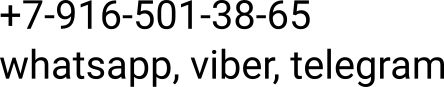
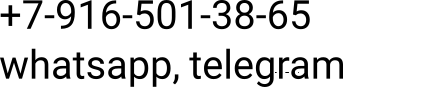
ew image of fio, address, phonenumber, corrected yandex rating link and yandex sprav link

Changed region(s): [[0.4099, 0.5517, 1.0, 1.0]]

diff --git a/public/index.html b/public/index.html
@@ -1,4 +1,4 @@
-<!Doctype html><html lang="ru-RU" title="Частный бухгалтер в Лобне"><head><meta charset="UTF-8"><meta name="viewport" content="width=device-width,initial-scale=1"><meta http-equiv="X-UA-Compatible" content="ie=edge"><meta name="description" content="Услуги бухгалтера в Лобне. 3-НДФЛ в Лобне, декларации УСН, налоговая отетность."><meta name="Keywords" content="3-НДФЛ, бухгалтерия в Лобне, деклария УСН, отчетность в налоговую"><meta name="yandex-verification" content="42da7c39a68bbf83"><link rel="shortcut icon" type="image/png" href="favicon.png"><link rel="stylesheet" href="css/style.min.css"><link rel="stylesheet" href="css/solid.min.css"><link rel="stylesheet" href="css/fontawesome.min.css"><link rel="canonical" href="https://mojbuhgalter.ru/"><link rel="dns-prefetch" href="//www.google.com"><link rel="dns-prefetch" href="//fonts.googleapis.com"><script async src="js/fontawesome.min.js"></script><script async src="js/solid.min.js"></script><script async src="https://cdnjs.cloudflare.com/ajax/libs/jquery/3.3.1/jquery.min.js"></script><script async src="js/menu.min.js"></script><script type="application/ld+json" class="aioseop-schema">{"@context":"https://schema.org","@graph":[{"@type":"Organization","@id":"https://mojbuhgalter.ru/#organization","url":"https://mojbuhgalter.ru/","name":"Частный бухгалтер в Лобне","sameAs":[]},{"@type":"WebSite","@id":"https://mojbuhgalter.ru/#website","url":"https://mojbuhgalter.ru/","name":"Частный бухгалтер в Лобне","publisher":{"@id":"https://mojbuhgalter.ru/#organization"}},{"@type":"WebPage","@id":"https://mojbuhgalter.ru#webpage","url":"https://mojbuhgalter.ru","inLanguage":"ru-RU","name":"Частный бухгалтер в Лобне","isPartOf":{"@id":"https://mojbuhgalter.ru/#website"},"breadcrumb":{"@id":"https://mojbuhgalter.ru#breadcrumblist"},"description":"Частные бухгалтерские услуги в Лобне, Долгопрудном, 3-НДФЛ","datePublished":"2015-12-01T12:17:01+03:00","dateModified":"2020-04-23T05:15:12+03:00","about":{"@id":"https://mojbuhgalter.ru/#organization"}},{"@type":"BreadcrumbList","@id":"https://mojbuhgalter.ru#breadcrumblist","itemListElement":[{"@type":"ListItem","position":1,"item":{"@type":"WebPage","@id":"https://mojbuhgalter.ru/","url":"https://mojbuhgalter.ru/","name":"Частный бухгалтер в Лобне"}}]}]}</script><title>Частный бухгалтер в Лобне. Ведение бухгалтерии, налоговая отчетность. 3-НДФЛ, патенты для иногородних.</title></head><body><div class="backgroud-container"><div class="container"><header class="header"><hr class="upper-line"><div class="header2"><img src="img/mb_logo.png" class="logo"><h1>Частный бухгалтер в Лобне</h1></div><hr class="bottom-line"><div class="menu-wrap"><input type="checkbox" class="toggler"><div class="hamburger"><div></div></div><div class="menu"><div><div><ul><li class="hamburger-off"><a href="#aboutme">Обо мне</a></li><li class="hamburger-off"><a href="#individual">Для физических лиц</a></li><li class="hamburger-off"><a href="#company">Для юридических лиц</a></li><li class="hamburger-off"><a href="#3_ndfl">3-НДФЛ в Лобне</a></li><li class="hamburger-off"><a href="#contacts">Контакты</a></li></ul></div></div></div></div></header><div><section id="aboutme"><div class="main"><h2>Обо мне</h2><div class="card_wrapper"><div class="inner_70"><ul><strong>Частный бухгалтер — Копылова Марина Андреевна</strong><li>Высшее образование — РЭУ им.Плеханова, финансовый факультет, специальность — финансовый менеджмент (диплом с отличием).</li><li>Опыт работы — в качестве экономиста, бухгалтера и налогового консультанта с 2008 года.</li><li>Я предоставляю бухгалтерские услуги удаленно в собственной бухгалтерской программе.</li><li>Все вопросы можете задать в любой момент и Вы гарантировано получите быстрый компетентный ответ.</li><li>В работе использую специальные налоговые программы. Вы всегда можете быть уверены, что сдадите актуальную форму документа.</li><li>Своя бухгалтерская программа 1С, всегда актуальная версия, сделаю необходимые документы для Вас.</li><li>Сдача отчетности через Интернет прямо из программы без затрат сил, средств, времени и нервов на стояние в очередях (при наличии ЭЦП).</li><li>Консультации онлайн по телефону, вотсап, электронной почте.</li></ul></div><div class="inner_30"><img src="img/Marina-Kopylova-200x300.jpg" class="image" alt="Копылова Марина Андреевна, частный бухглтер" title="частный бухгалтер в Лобне, Дмитрове, Долгопрудном, Химках"></div></div></div></section><section id="individual"><div class="main"><h2>Для физических лиц</h2><div class="card_wrapper"><div class="inner_30"><img src="img/mojbuhgalter.ru_-200x300.jpg" class="image" alt="бухгалтерские услуги" title="бухгалтерские услуги в Лобне, Дмитрове, Долгопрудном, Химках"></div><div class="inner_70"><ul><li>Налоговый вычет 3-НДФЛ для физических лиц.</li><li>3-НДФЛ для вида на жительство в РФ.</li><li>Вернуть налог при покупке квартиры.</li><li>Вернуть налог за лечение.</li><li>Вернуть налог за обучение.</li><li>Вернуть деньги при покупке недвижимости.</li><li>Сделать счет, акт, накладную в Лобне.</li><li>Налоговые консультации в Лобне.</li><li>Распечатать документы в Лобне.</li><li>Консультации для физлиц по вопросам имущественных и социальных вычетов.</li><li>Заполнение 3-ндфл для иностранных граждан/мигрантов.</li><li>Оформить покупку гаража Лобня.</li><li>Оформить продажу гаража Лобня.</li><li>Оформить покупку автомобиля Лобня.</li><li>Оформить продажу автомобиля Лобня.</li><li>Оформить покупку земельного участка Лобня.</li><li>Оформить продажу земельного участка Лобня.</li><li>Договор купли-продажи гаража заполнить Лобня.</li><li>Договор купли-продажи автомобиля заполнить Лобня.</li><li>Договор купли-продажи земельного участка заполнить Лобня.</li><li>Составить уведомление КИК.</li></ul></div></div></div></section><section id="company"><div class="main"><h2>Для юридических лиц</h2><div class="card_wrapper"><div class="inner_60"><ul><li>Ведение бухгалтерского учета ООО и ИП на упрощенной и общей системе налогобложения.</li><li>Уменьшение патента на взносы.</li><li>Заполнение декларации УСН.</li><li>Оформление трудовых договоров.</li><li>Квинтации на оплату налогов и взносов.</li><li>Квитанции на обязательные платежи ИП.</li><li>Заполнение РСВ, 6-НДФЛ, 4-ФСС.</li><li>Отчет ИП, оформление сотрудников ИП, расчет зарплаты сотрудников.</li><li>Налоговые консультации ИП и ООО, урегулирование фискальных задолженностей.</li><li>Формирование отчетов в ФНС, ПФР, ФСС, в т.ч. нулевых;</li><li>Выписки из ЕГРЮЛ/ЕГРИП срочно и удаленно;</li></ul></div><div class="inner_30"><img src="img/chastnyj-buhgalter-300x203.jpg" class="image" alt="бухгалтерия для компаний" title="бухгалтерские услуги для юридических лиц, ООО, ИП"></div></div></div></section><section id="3_ndfl"><div class="main"><h2>3-НДФЛ в Лобне</h2><strong>Оперативно поможем Вам заполнить 3-НДФЛ, не выходя из дома.</strong><div class="card_wrapper"><div class="inner_60"><ul><li>Звоните по тел. +7(916)501-38-65 или пишите в вотсап на этом номере</li><li>Обсуждаем детали, конкретно Вашу ситуацию, для которой заполняется 3-НДФЛ</li><li>Я сообщаю, какие документы нужны для заполнения, их можно направить удаленно или передать при личной встрече (как правило, достаточно 2 документов)</li><li>В течение 24 часов Вы получаете заполненную декларацию в бумажном или электронном виде, а также необходимые для сдачи декларации в налоговую заявления.</li><li>Сдаете декларацию при личном визите в налоговую, почтой или через личный кабинет на сайте налог.ру или госуслуги.ру</li></ul></div><div class="inner_30"><img src="img/3-ndfl-deklaratsiya-m17190.jpg" class="image" alt="3-НДФЛ" title="3 НДФЛ в Лобне, Дмитрове, Долгопрудном, Химках"></div></div></div></section><section id="contacts"><div class="main"><h2>Контакты</h2><div class="card_wrapper"><div class="inner_60"><ul class="contacts"><li><i class="fas fa-id-card fa-lg"></i> &nbsp; <img src="img/fio.png" alt="Копылова Марина Андреевна" title="Копылова Марина Андреевна" style="max-width:300px;width:270px"></li><li><i class="fas fa-phone-square-alt fa-lg"></i> &nbsp; <img src="img/phonenumber.png" alt="номер телефона" title="номер телефона" style="max-width:400px;width:270px"></li><li><i class="fas fa-envelope fa-lg"></i> &nbsp; <img src="img/mail.png" alt="email" title="Электронный адрес" style="max-width:300px;width:270px"></li><li><i class="fas fa-map-marker-alt fa-lg"></i> &nbsp; <img src="img/address.png" alt="Адрес" title="Почтовый адрес" style="max-width:300px;width:270px"></li></ul></div><div class="inner_30"><img src="img/cooperation.jpg" alt="Содрудничество" title="Бузхгалтерия для Вас" class="image"><h3>Оценка клиентов в Яндексе</h3><div align="center"><iframe scrolling="no" src="https://yandex.ru/sprav/widget/rating-badge/1675903794?type=rating" width="200" height="50" frameborder="0"></iframe></div><p>Воспользовались моими услугами?<br>Оставьте отзыв по <a href="https://ya.cc/t/gpo3Y0A14iWeGD">ссылке.</a></p></div></div></div></section></div><div class="footer"><h3>Мой бухгалтер - частные бухгалтерские услуги: просто, удобно, доступно.</h3><h3>&copy;&nbsp;2015-2024&nbsp;&nbsp;</h3><!-- Yandex.Metrika counter & Google counter --><script type="text/javascript">var fired = false;
+<!Doctype html><html lang="ru-RU" title="Частный бухгалтер в Лобне"><head><meta charset="UTF-8"><meta name="viewport" content="width=device-width,initial-scale=1"><meta http-equiv="X-UA-Compatible" content="ie=edge"><meta name="description" content="Услуги бухгалтера в Лобне. 3-НДФЛ в Лобне, декларации УСН, налоговая отетность."><meta name="Keywords" content="3-НДФЛ, бухгалтерия в Лобне, деклария УСН, отчетность в налоговую"><meta name="yandex-verification" content="42da7c39a68bbf83"><link rel="shortcut icon" type="image/png" href="favicon.png"><link rel="stylesheet" href="css/style.min.css"><link rel="stylesheet" href="css/solid.min.css"><link rel="stylesheet" href="css/fontawesome.min.css"><link rel="canonical" href="https://mojbuhgalter.ru/"><link rel="dns-prefetch" href="//www.google.com"><link rel="dns-prefetch" href="//fonts.googleapis.com"><script async src="js/fontawesome.min.js"></script><script async src="js/solid.min.js"></script><script async src="https://cdnjs.cloudflare.com/ajax/libs/jquery/3.3.1/jquery.min.js"></script><script async src="js/menu.min.js"></script><script type="application/ld+json" class="aioseop-schema">{"@context":"https://schema.org","@graph":[{"@type":"Organization","@id":"https://mojbuhgalter.ru/#organization","url":"https://mojbuhgalter.ru/","name":"Частный бухгалтер в Лобне","sameAs":[]},{"@type":"WebSite","@id":"https://mojbuhgalter.ru/#website","url":"https://mojbuhgalter.ru/","name":"Частный бухгалтер в Лобне","publisher":{"@id":"https://mojbuhgalter.ru/#organization"}},{"@type":"WebPage","@id":"https://mojbuhgalter.ru#webpage","url":"https://mojbuhgalter.ru","inLanguage":"ru-RU","name":"Частный бухгалтер в Лобне","isPartOf":{"@id":"https://mojbuhgalter.ru/#website"},"breadcrumb":{"@id":"https://mojbuhgalter.ru#breadcrumblist"},"description":"Частные бухгалтерские услуги в Лобне, Долгопрудном, 3-НДФЛ","datePublished":"2015-12-01T12:17:01+03:00","dateModified":"2020-04-23T05:15:12+03:00","about":{"@id":"https://mojbuhgalter.ru/#organization"}},{"@type":"BreadcrumbList","@id":"https://mojbuhgalter.ru#breadcrumblist","itemListElement":[{"@type":"ListItem","position":1,"item":{"@type":"WebPage","@id":"https://mojbuhgalter.ru/","url":"https://mojbuhgalter.ru/","name":"Частный бухгалтер в Лобне"}}]}]}</script><title>Частный бухгалтер в Лобне. Ведение бухгалтерии, налоговая отчетность. 3-НДФЛ, патенты для иногородних.</title></head><body><div class="backgroud-container"><div class="container"><header class="header"><hr class="upper-line"><div class="header2"><img src="img/mb_logo.png" class="logo"><h1>Частный бухгалтер в Лобне</h1></div><hr class="bottom-line"><div class="menu-wrap"><input type="checkbox" class="toggler"><div class="hamburger"><div></div></div><div class="menu"><div><div><ul><li class="hamburger-off"><a href="#aboutme">Обо мне</a></li><li class="hamburger-off"><a href="#individual">Для физических лиц</a></li><li class="hamburger-off"><a href="#company">Для юридических лиц</a></li><li class="hamburger-off"><a href="#3_ndfl">3-НДФЛ в Лобне</a></li><li class="hamburger-off"><a href="#contacts">Контакты</a></li></ul></div></div></div></div></header><div><section id="aboutme"><div class="main"><h2>Обо мне</h2><div class="card_wrapper"><div class="inner_70"><ul><strong>Частный бухгалтер — Копылова Марина Андреевна</strong><li>Высшее образование — РЭУ им.Плеханова, финансовый факультет, специальность — финансовый менеджмент (диплом с отличием).</li><li>Опыт работы — в качестве экономиста, бухгалтера и налогового консультанта с 2008 года.</li><li>Я предоставляю бухгалтерские услуги удаленно в собственной бухгалтерской программе.</li><li>Все вопросы можете задать в любой момент и Вы гарантировано получите быстрый компетентный ответ.</li><li>В работе использую специальные налоговые программы. Вы всегда можете быть уверены, что сдадите актуальную форму документа.</li><li>Своя бухгалтерская программа 1С, всегда актуальная версия, сделаю необходимые документы для Вас.</li><li>Сдача отчетности через Интернет прямо из программы без затрат сил, средств, времени и нервов на стояние в очередях (при наличии ЭЦП).</li><li>Консультации онлайн по телефону, вотсап, электронной почте.</li></ul></div><div class="inner_30"><img src="img/Marina-Kopylova-200x300.jpg" class="image" alt="Копылова Марина Андреевна, частный бухглтер" title="частный бухгалтер в Лобне, Дмитрове, Долгопрудном, Химках"></div></div></div></section><section id="individual"><div class="main"><h2>Для физических лиц</h2><div class="card_wrapper"><div class="inner_30"><img src="img/mojbuhgalter.ru_-200x300.jpg" class="image" alt="бухгалтерские услуги" title="бухгалтерские услуги в Лобне, Дмитрове, Долгопрудном, Химках"></div><div class="inner_70"><ul><li>Налоговый вычет 3-НДФЛ для физических лиц.</li><li>3-НДФЛ для вида на жительство в РФ.</li><li>Вернуть налог при покупке квартиры.</li><li>Вернуть налог за лечение.</li><li>Вернуть налог за обучение.</li><li>Вернуть деньги при покупке недвижимости.</li><li>Сделать счет, акт, накладную в Лобне.</li><li>Налоговые консультации в Лобне.</li><li>Распечатать документы в Лобне.</li><li>Консультации для физлиц по вопросам имущественных и социальных вычетов.</li><li>Заполнение 3-ндфл для иностранных граждан/мигрантов.</li><li>Оформить покупку гаража Лобня.</li><li>Оформить продажу гаража Лобня.</li><li>Оформить покупку автомобиля Лобня.</li><li>Оформить продажу автомобиля Лобня.</li><li>Оформить покупку земельного участка Лобня.</li><li>Оформить продажу земельного участка Лобня.</li><li>Договор купли-продажи гаража заполнить Лобня.</li><li>Договор купли-продажи автомобиля заполнить Лобня.</li><li>Договор купли-продажи земельного участка заполнить Лобня.</li><li>Составить уведомление КИК.</li></ul></div></div></div></section><section id="company"><div class="main"><h2>Для юридических лиц</h2><div class="card_wrapper"><div class="inner_60"><ul><li>Ведение бухгалтерского учета ООО и ИП на упрощенной и общей системе налогобложения.</li><li>Уменьшение патента на взносы.</li><li>Заполнение декларации УСН.</li><li>Оформление трудовых договоров.</li><li>Квинтации на оплату налогов и взносов.</li><li>Квитанции на обязательные платежи ИП.</li><li>Заполнение РСВ, 6-НДФЛ, 4-ФСС.</li><li>Отчет ИП, оформление сотрудников ИП, расчет зарплаты сотрудников.</li><li>Налоговые консультации ИП и ООО, урегулирование фискальных задолженностей.</li><li>Формирование отчетов в ФНС, ПФР, ФСС, в т.ч. нулевых;</li><li>Выписки из ЕГРЮЛ/ЕГРИП срочно и удаленно;</li></ul></div><div class="inner_30"><img src="img/chastnyj-buhgalter-300x203.jpg" class="image" alt="бухгалтерия для компаний" title="бухгалтерские услуги для юридических лиц, ООО, ИП"></div></div></div></section><section id="3_ndfl"><div class="main"><h2>3-НДФЛ в Лобне</h2><strong>Оперативно поможем Вам заполнить 3-НДФЛ, не выходя из дома.</strong><div class="card_wrapper"><div class="inner_60"><ul><li>Звоните по тел. +7(916)501-38-65 или пишите в вотсап на этом номере</li><li>Обсуждаем детали, конкретно Вашу ситуацию, для которой заполняется 3-НДФЛ</li><li>Я сообщаю, какие документы нужны для заполнения, их можно направить удаленно или передать при личной встрече (как правило, достаточно 2 документов)</li><li>В течение 24 часов Вы получаете заполненную декларацию в бумажном или электронном виде, а также необходимые для сдачи декларации в налоговую заявления.</li><li>Сдаете декларацию при личном визите в налоговую, почтой или через личный кабинет на сайте налог.ру или госуслуги.ру</li></ul></div><div class="inner_30"><img src="img/3-ndfl-deklaratsiya-m17190.jpg" class="image" alt="3-НДФЛ" title="3 НДФЛ в Лобне, Дмитрове, Долгопрудном, Химках"></div></div></div></section><section id="contacts"><div class="main"><h2>Контакты</h2><div class="card_wrapper"><div class="inner_60"><ul class="contacts"><li><i class="fas fa-id-card fa-lg"></i> &nbsp; <img src="img/fio.png" alt="Копылова Марина Андреевна" title="Копылова Марина Андреевна" style="max-width:300px;width:270px"></li><li><i class="fas fa-phone-square-alt fa-lg"></i> &nbsp; <img src="img/phonenumber.png" alt="номер телефона" title="номер телефона" style="max-width:400px;width:270px"></li><li><i class="fas fa-envelope fa-lg"></i> &nbsp; <img src="img/mail.png" alt="email" title="Электронный адрес" style="max-width:300px;width:270px"></li><li><i class="fas fa-map-marker-alt fa-lg"></i> &nbsp; <img src="img/address.png" alt="Адрес" title="Почтовый адрес" style="max-width:300px;width:270px"></li></ul></div><div class="inner_30"><img src="img/cooperation.jpg" alt="Содрудничество" title="Бузхгалтерия для Вас" class="image"><h3>Оценка клиентов в Яндексе</h3><div style="text-align:center"><iframe scrolling="no" src="https://yandex.ru/sprav/widget/rating-badge/112441616693?type=rating" width="200" height="50" frameborder="0"></iframe></div><p>Воспользовались моими услугами?<br>Оставьте отзыв по <a href="https://ya.cc/t/eqN9Zp4y5ziVsj">ссылке.</a></p></div></div></div></section></div><div class="footer"><h3>Мой бухгалтер - частные бухгалтерские услуги: просто, удобно, доступно.</h3><h3>&copy;&nbsp;2015-2024&nbsp;&nbsp;</h3><!-- Yandex.Metrika counter & Google counter --><script type="text/javascript">var fired = false;
                         window.addEventListener('scroll', () => {
                             if (fired === false) {
                                 fired = true;
@@ -18,7 +18,4 @@
                                     });
                                 }, 1000)
                             }
-                        });</script><noscript><div><img src="https://mc.yandex.ru/watch/69491473" style="position:absolute;left:-9999px" alt=""></div></noscript><!-- /Yandex.Metrika counter --><!-- Global site tag (gtag.js) - Google Analytics --><script async src="https://www.googletagmanager.com/gtag/js?id=G-M1MRMXEV98"></script><script>window.dataLayer = window.dataLayer || [];
-                        function gtag(){dataLayer.push(arguments);}
-                        gtag('js', new Date());
-                        gtag('config', 'G-M1MRMXEV98');</script><script type="text/javascript" async id="topmailru-code" src="https://top-fwz1.mail.ru/js/code.js"></script></div></div></div></body></html>
+                        });</script><noscript><div><img src="https://mc.yandex.ru/watch/69491473" style="position:absolute;left:-9999px" alt=""></div></noscript><!-- /Yandex.Metrika counter --><!-- Global site tag (gtag.js) - Google Analytics --><script async src="https://www.googletagmanager.com/gtag/js?id=G-M1MRMXEV98"></script><script>function gtag(){dataLayer.push(arguments)}window.dataLayer=window.dataLayer||[],gtag("js",new Date),gtag("config","G-M1MRMXEV98")</script><script type="text/javascript" async id="topmailru-code" src="https://top-fwz1.mail.ru/js/code.js"></script></div></div></div></body></html>

diff --git a/index.html b/index.html
@@ -173,12 +173,12 @@
                                 <div class="inner_30">
                                     <img src="img/cooperation.jpg" alt="Содрудничество" title="Бузхгалтерия для Вас" class="image">
                                     <h3>Оценка клиентов в Яндексе</h3>
-                                    <div align="center">
-                                        <iframe scrolling=no src="https://yandex.ru/sprav/widget/rating-badge/1675903794?type=rating" width="200" height="50" frameborder="0"></iframe>
+                                    <div style="text-align: center;">
+                                        <iframe scrolling=no src="https://yandex.ru/sprav/widget/rating-badge/112441616693?type=rating" width="200" height="50" frameborder="0"></iframe>
                                     </div>
                                         <p>
                                         Воспользовались моими услугами?<br>
-                                        Оставьте отзыв по <a href="https://ya.cc/t/gpo3Y0A14iWeGD">ссылке.</a>
+                                        Оставьте отзыв по <a href="https://ya.cc/t/eqN9Zp4y5ziVsj">ссылке.</a>
                                     </p>
                                 </div>
                             </div>
